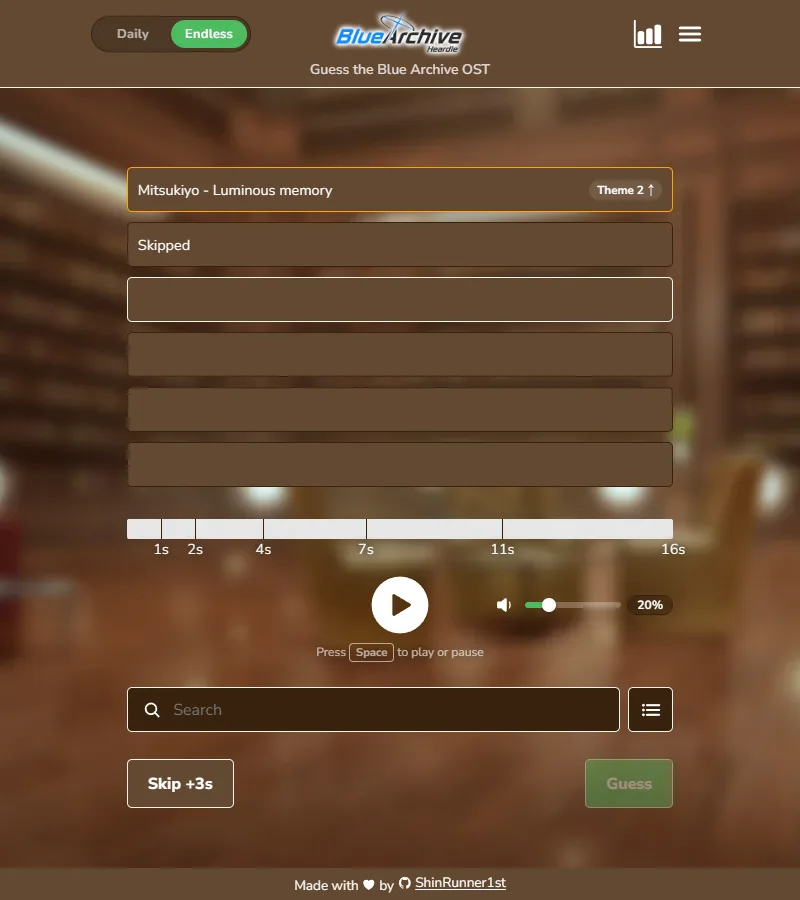
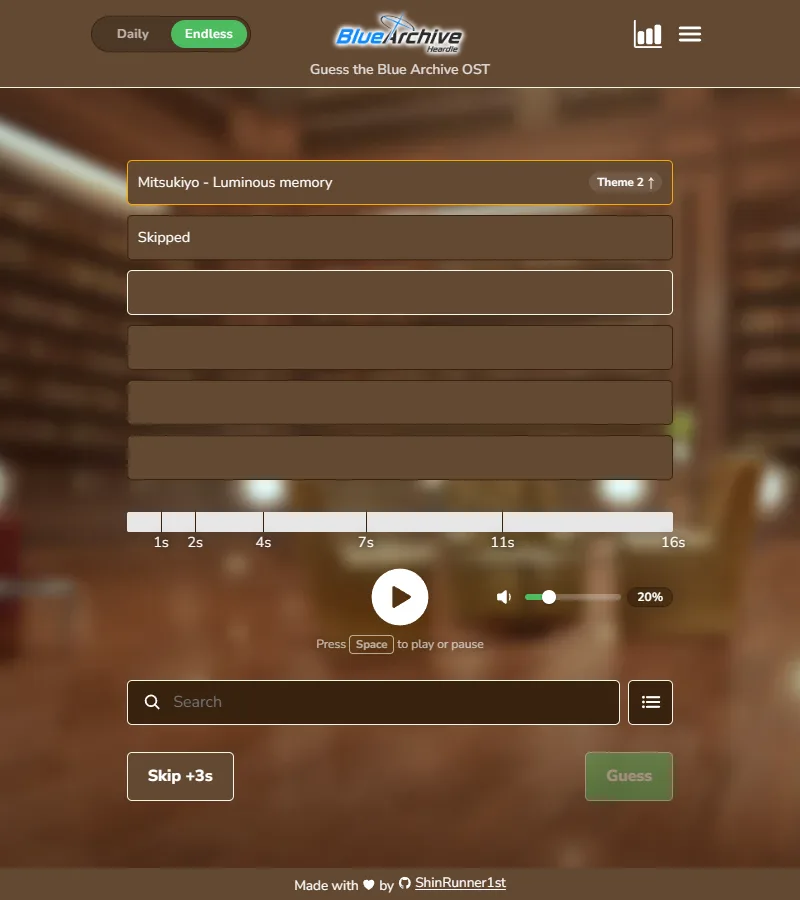
feat: word the result messages as Blue Archive missions
A first-try win is a 3★ clear, then EX Skills, Schale and Kivotos as it
gets closer; a loss is a tactical retreat, with Arona promising a next
time. README screenshots retaken to match.

diff --git a/src/components/Result/index.tsx b/src/components/Result/index.tsx
@@ -29,14 +29,21 @@ interface Props {
   onNewDay: () => void;
 }
 
+/**
+ * The win message for each try, told as a Blue Archive mission: a first-try
+ * win is a three-star clear, and it gets hairier from there.
+ */
 const TEXT_FOR_TRY = [
-  "EH?! FIRST TRY?! 😮",
-  "Sensei is strong today 💪",
-  "Not bad at all~ 👀",
-  "Okay, getting intense 😤",
-  "THAT WAS TOO CLOSE 😭",
-  "WE SURVIVED, SENSEI 😭💥",
+  "3★ clear on the first try! ✨",
+  "Sensei's EX Skill landed! 💥",
+  "Mission complete, Sensei~ 📋",
+  "Schale pulls through! 💪",
+  "A narrow escape in Kivotos… 😅",
+  "Cleared at the last second! 😭💥",
 ];
+
+const LOSS_TITLE = "Tactical retreat, Sensei… 💔";
+const LOSS_TEXT = "Arona says there's always next time! 📱";
 
 const COUNTDOWN_TICK_MS = 30_000;
 
@@ -127,7 +134,7 @@ export function Result({
     ? TEXT_FOR_TRY[
         Math.min(Math.max(currentTry - 1, 0), TEXT_FOR_TRY.length - 1)
       ]
-    : "Mission Failed… 💔";
+    : LOSS_TITLE;
 
   return (
     <>
@@ -138,7 +145,7 @@ export function Result({
           ? `You got it right in ${currentTry} ${
               currentTry === 1 ? "guess" : "guesses"
             }.`
-          : "Sensei needs more training 😭"}
+          : LOSS_TEXT}
       </Styled.Tries>
       <Styled.Score>
         {isDaily && typeof round.day === "number"

diff --git a/src/components/Result/index.test.ts b/src/components/Result/index.test.ts
@@ -114,6 +114,19 @@ describe("Result on a win", () => {
     expect(container.textContent).toContain("Your clip: 0:12 – 0:16");
   });
 
+  it.each([
+    [1, "3★ clear on the first try!"],
+    [2, "Sensei's EX Skill landed!"],
+    [3, "Mission complete, Sensei~"],
+    [4, "Schale pulls through!"],
+    [5, "A narrow escape in Kivotos…"],
+    [6, "Cleared at the last second!"],
+  ])("cheers a win on try %i in Blue Archive terms", (currentTry, message) => {
+    mount({ currentTry });
+
+    expect(container.textContent).toContain(message);
+  });
+
   it("offers Next Song while songs remain", () => {
     mount();
 
@@ -127,7 +140,8 @@ describe("Result on a loss", () => {
   it("shows the failure message and still reveals the song", () => {
     mount({ didGuess: false, currentTry: 6 });
 
-    expect(container.textContent).toContain("Mission Failed");
+    expect(container.textContent).toContain("Tactical retreat, Sensei");
+    expect(container.textContent).toContain("Arona says");
     expect(container.textContent).toContain("Constant Moderato");
   });
 
